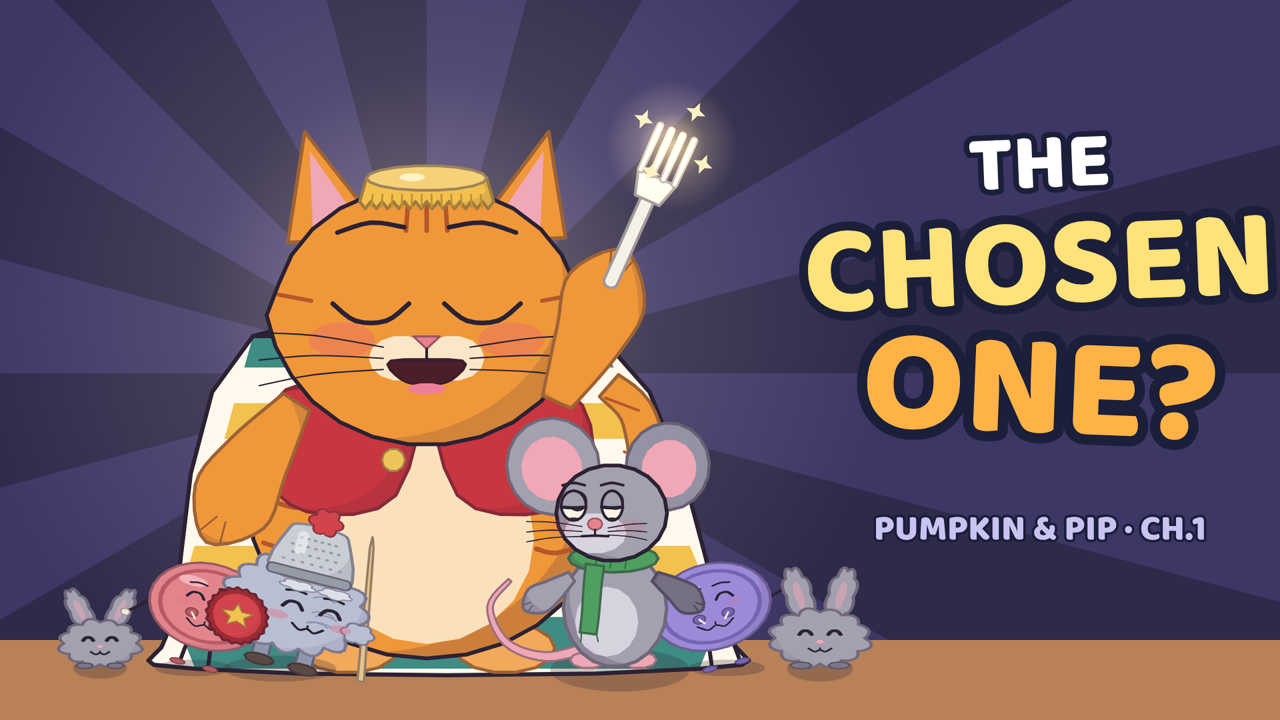
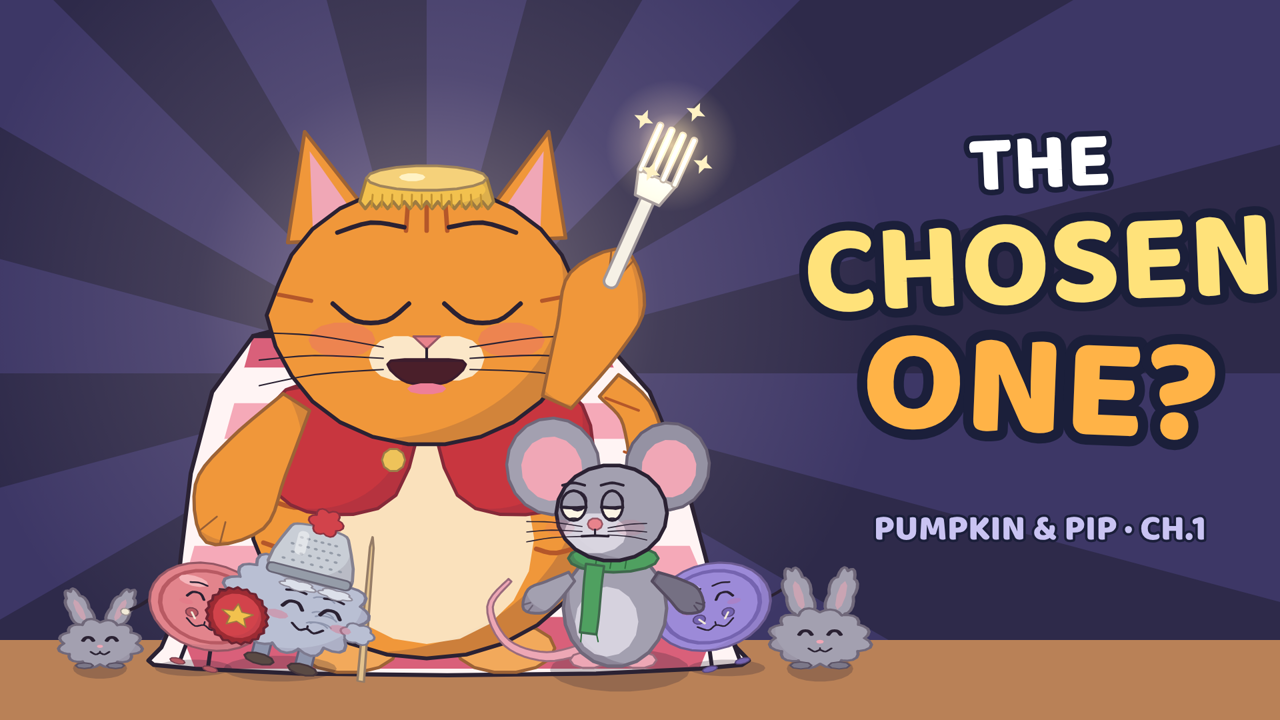
long/07: the lost twin sock is a lady sock: pink stripes + eyelashes; Pumpkin's cape (she is the cape) pink to match; ch1 re-rendered
Claude-Session: https://claude.ai/code/session_01WxLgLCMvMcVaDmvrqqXGT7

diff --git a/long/07-couch-kingdom/src/cast.js b/long/07-couch-kingdom/src/cast.js
@@ -20,7 +20,7 @@ const LOST = {
   lint: '#B9BFD3', lintDk: '#8E95AD', lintLt: '#DCE0EA', thimble: '#C9CED6', thimbleDk: '#959CA8', cap: '#D2434B', capDk: '#9C2B33',
   pick: '#E3C38E', pickDk: '#B8945A', button: '#5FB3A8', buttonDk: '#3E8C82', buttonLt: '#8ED1C6', thread: '#F2EAD8', clip: '#B7BEC9',
   cookie: '#E9B860', cookieDk: '#C48A3A', cookieLt: '#F6D99A', paper: '#FFFDF6', mystic: '#B79CF2',
-  sock: ['#3E8C82', '#F2C14E', '#FFF8EC'], sockDk: '#2C6B63', btnEye: '#3B3F4A', dust: '#A3A0B0', dustDk: '#7C7889', dustLt: '#C9C6D3',
+  sock: ['#3E8C82', '#F2C14E', '#FFF8EC'], sockDk: '#2C6B63', sockPink: ['#D9607A', '#F5A9B8', '#FFF4F4'], sockPinkDk: '#A8435A', btnEye: '#3B3F4A', dust: '#A3A0B0', dustDk: '#7C7889', dustLt: '#C9C6D3',
 };
 
 // soft scalloped outline (fluff): bumps round an ellipse
@@ -192,7 +192,7 @@ function sockOutline(u, side, bend = 0) {
           [2.55 * u, -4.85 * u + b], [2.1 * u, -4.2 * u + b], [1.2 * u, -4.0 * u], [.95 * u, -3.4 * u], [1.0 * u, -.25 * u]];
 }
 function sockTroll(x, y, u, o = {}) {
-  const C = LOST, sw = folkSW(u, o), side = (o.view || 'side') !== 'front';
+  const C = o.pink ? { ...LOST, sock: LOST.sockPink, sockDk: LOST.sockPinkDk } : LOST, sw = folkSW(u, o), side = (o.view || 'side') !== 'front';
   folkBegin(x, y, u, o, 1.6);
   const bend = o.bend ?? Math.sin(T * 2) * .4, P = sockOutline(u, side, bend), b = bend * .3 * u;
   paint(P, { wash: C.sock[2], ink: null, curv: .35 });
@@ -217,6 +217,7 @@ function sockTroll(x, y, u, o = {}) {
       for (const [dx, dy] of [[-1, -1], [1, -1], [-1, 1], [1, 1]]) paint(ellPts(ex + lx + dx * r * .28, ey + ly + dy * r * .28, r * .1, r * .1, 6), { wash: '#1B1D24', ink: null });
       paint(ellPts(ex - r * .45, ey - r * .45, r * .2, r * .14, 6), { wash: '#FFFFFF', washOp: 200, ink: null });
     }
+    if (o.pink && !shut) for (let k = 0; k < 3; k++) { const a = -Math.PI / 2 + (k - 1) * .45 + (i ? .35 : -.35); inkLine([[ex + Math.cos(a) * r, ey + Math.sin(a) * r], [ex + Math.cos(a) * r * 1.55, ey + Math.sin(a) * r * 1.55]], sw * 1.1, PAL.ink, 'ink', 0); }   // eyelashes
     const br = o.brow || 0, up = (o.browUp || 0) * .12 * u;
     inkLine([[ex - .32 * u, ey - .48 * u + s * br * .13 * u - up], [ex + .32 * u, ey - .48 * u - s * br * .13 * u - up]], sw * 1.1, PAL.ink, 'ink', .2);
   });
@@ -246,7 +247,7 @@ function dustBunny(x, y, u, o = {}) {
 // The sock cape: the troll's twin (same stripes), hanging from the shoulders BEHIND the body; it peeks out at both sides and
 // its green toe shows under him. Same x, y, u, view, flip, rot as pumpkin(). o.wind -1..1 blows it.
 function sockCape(x, y, u, o = {}) {
-  const C = LOST, sw = clamp(u / 15, .5, 3), view = o.view || 'front', side = view === 'side', q = view === 'q';
+  const C = { ...LOST, sock: LOST.sockPink }, sw = clamp(u / 15, .5, 3), view = o.view || 'front', side = view === 'side', q = view === 'q';
   const wind = o.wind ?? Math.sin(T * 2) * .12, wv = wind * u;
   push(); translate(x, y + (o.dy || 0) * u); if (o.rot) rotate(o.rot); scale(o.flip ? -1 : 1, 1);
   let P;

diff --git a/long/07-couch-kingdom/ch2/src/scenes/shots.js b/long/07-couch-kingdom/ch2/src/scenes/shots.js
@@ -114,7 +114,7 @@
     // the troll and, from 115.4, his twin (the cape) running to him and hugging
     const twinX = t < 115.4 ? null : lerp(TX - 320, TX - 120, ease(seg(t, 115.6, 120.8)));
     troll(t, { ...faces(t, [[100, 'sheepish', { mouth: 'wobble' }], [114.6, 'surprised', { lookX: -1 }], [116, 'happy', { mouth: 'grin' }]]), tears, dx: slow ? -ease(seg(t, 115.6, 120.8)) * 2.2 : 0, who: 'troll' });
-    if (twinX != null) sockTroll(twinX, BR.deck + 20, U * 1.15, { ...face('happy', { eyes: t > 116.4 ? 'happy' : 'closed', mouth: 'smile' }), boilKey: 'twin' });
+    if (twinX != null) sockTroll(twinX, BR.deck + 20, U * 1.15, { pink: true, ...face('happy', { eyes: t > 116.4 ? 'happy' : 'closed', mouth: 'smile' }), boilKey: 'twin' });
     if (t > 120.6 && t < 126) for (let i = 0; i < 5; i++) { const k = frac(t * .6 + i / 5); paint(heartPts(TX - 190 + Math.sin(k * 6 + i) * 40, BR.deck - 260 - k * 260, 22 * (1 - k * .4)), { wash: '#E2848C', washOp: 255 * (1 - k), ink: PAL.ink, sw: 1 }); }
     // the cape flies off Pumpkin to the troll (114-115.4), as a flat sock
     if (give > 0 && give < 1) { const p = arcPt([600, HEAD + 120], [TX - 320, BR.deck - 60], 200, ease(give)); push(); translate(p[0], p[1]); rotate(give * 6); sockFlat(0, 0, 0); pop(); }
@@ -137,7 +137,7 @@
     camC(clamp(kx + 160, 700, 1500), 1.25, shake(t, 140, 10));
     canyon(t, { eaten: seg(t, 131, 140) * .45, fall: FALL, cracks: 141, shake: t > 141 ? 1 : 0 });
     sockTroll(BR.x0 - 260, TFY, U * 1.0, { ...face('happy', { mouth: 'grin' }), bend: Math.sin(t * 4) * .6, boilKey: 'troll' });
-    sockTroll(BR.x0 - 420, TFY, U * .95, { ...face('happy', { eyes: 'happy', mouth: 'smile' }), bend: Math.sin(t * 4 + 1) * .6, boilKey: 'twin' });
+    sockTroll(BR.x0 - 420, TFY, U * .95, { pink: true, ...face('happy', { eyes: 'happy', mouth: 'smile' }), bend: Math.sin(t * 4 + 1) * .6, boilKey: 'twin' });
     const pipDone = Math.min(px, BR.x1 + 260);
     mouse(pipDone, TFY, { ...faces(t, [[130, 'neutral'], [133.6, 'neutral', { lookX: -1 }], [140, 'surprised', { lookX: -1 }], [145.6, 'panic', { lookX: -1 }]]), view: 'side', flip: t > 133.4 && t < 137.6, walk: pipDone > BR.x1 + 200 ? undefined : t * (run ? 9 : 5), who: 'pip' });
     const chew = t > 131 && t < 140;
